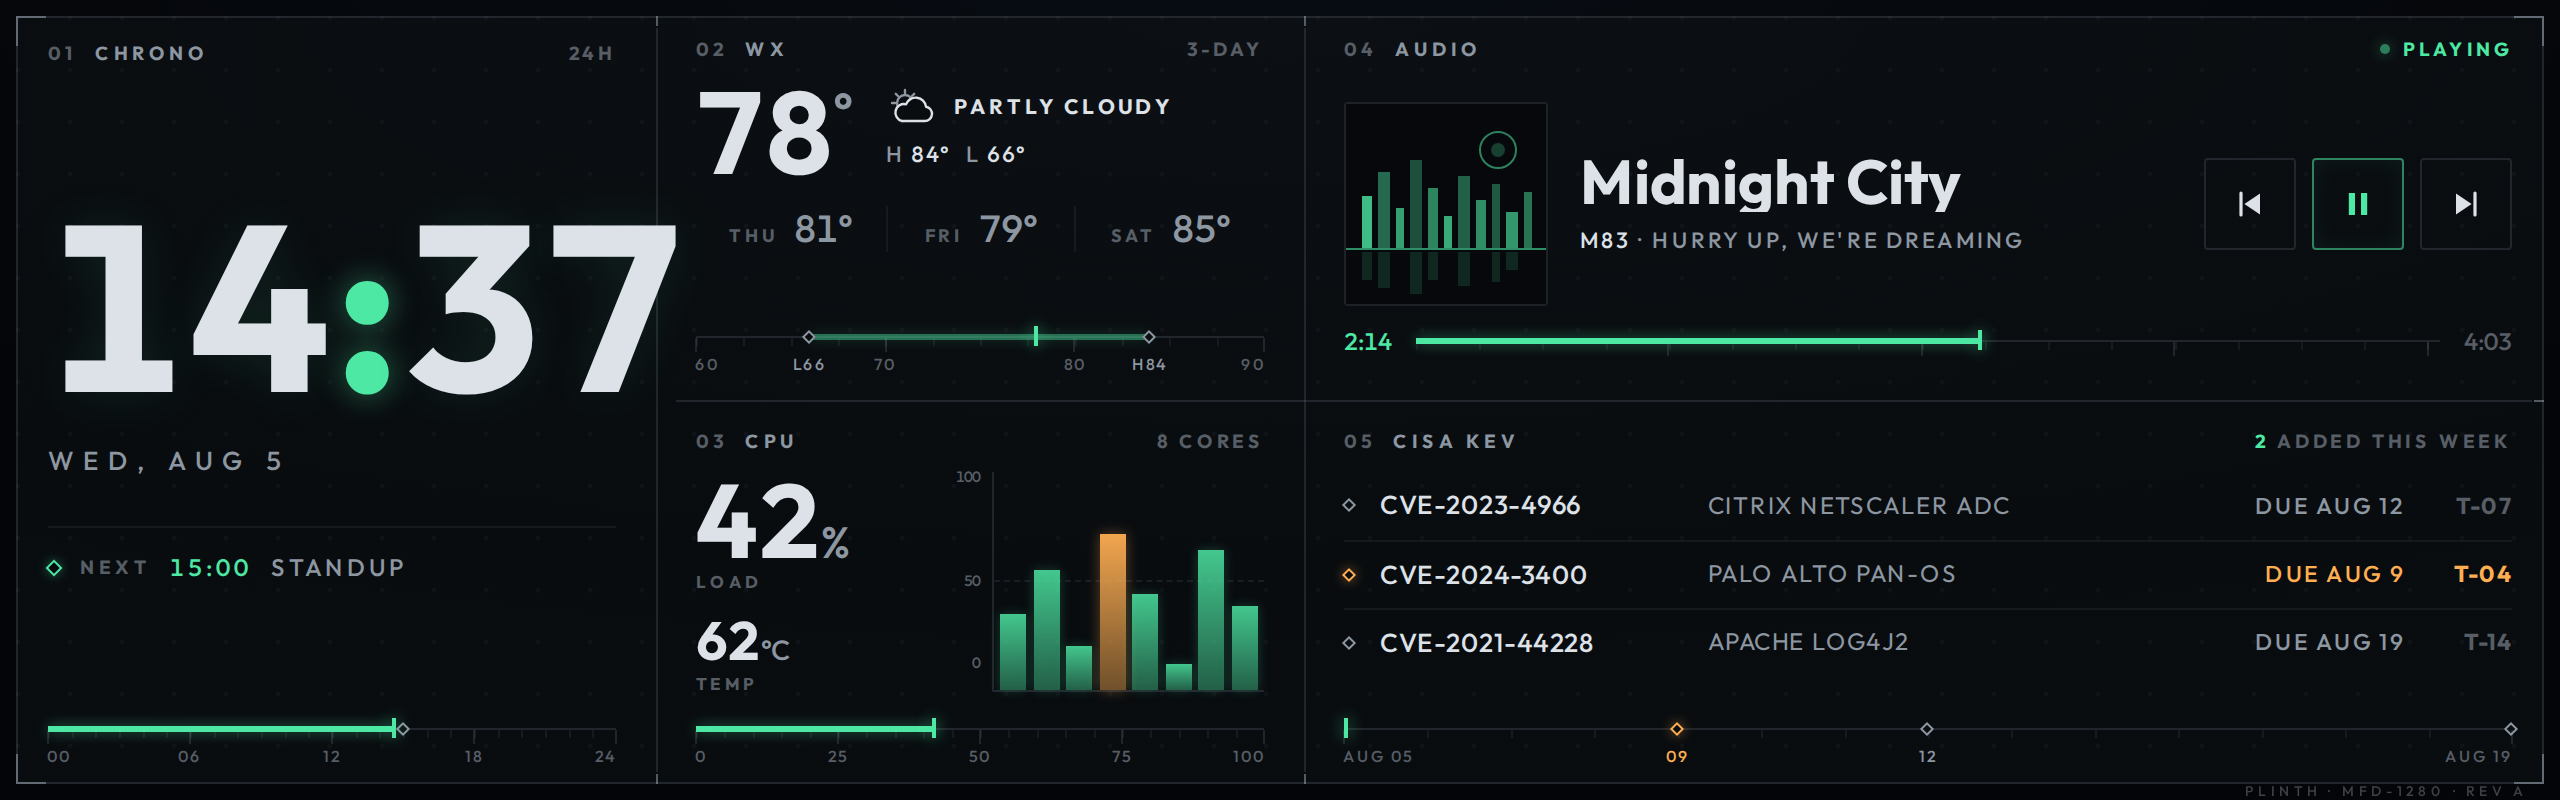
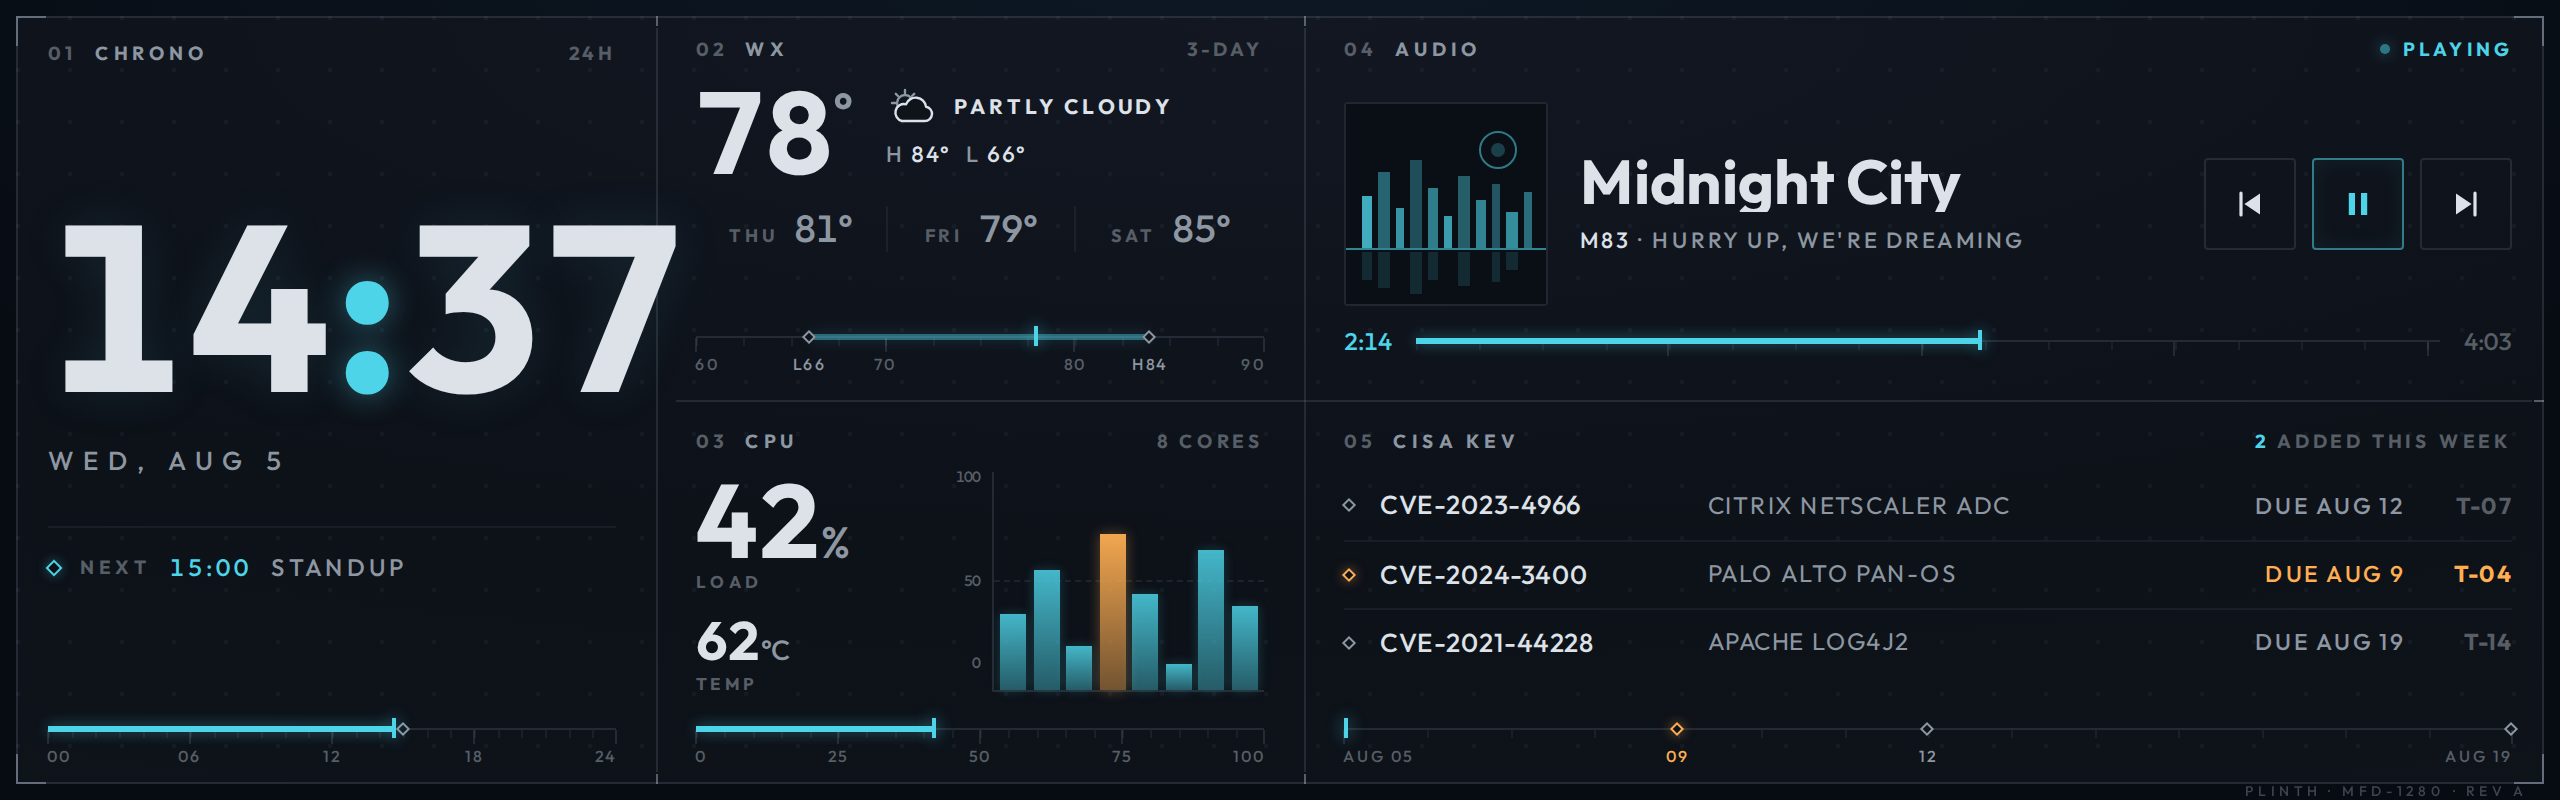
Hybrid round 2: cyan phosphor, lifted blue field
Green data accents clashed against the new blue field, so the phosphor
is re-pitched from green to cyan at the same saturation and brightness
(#4de8a4 -> #4dd4e8, --phos-rgb following), across the tokens and every
hardcoded SVG data fill. The field itself steps a notch lighter (bezel
#070b12, plate #0f141b, gradient and glow wash lifted to match) so the
blue reads instead of sitting at near-black. Amber alert roles are
still byte-for-byte Meter's.

Claude-Session: https://claude.ai/code/session_013RaFoFAZwKaKxN6ChnpKcc

diff --git a/design/poc/hybrid/index.html b/design/poc/hybrid/index.html
@@ -7,8 +7,8 @@
 <style>
   /* ============================================================
      PLINTH / HYBRID — the Meter instrument, restated
-     Lume's Outfit for all type · scanlines off · blue field
-     Accent hues untouched: phosphor green data, amber alerts.
+     Lume's Outfit for all type · scanlines off · lifted blue field
+     Phosphor re-pitched green→cyan · amber alerts untouched.
      ============================================================ */
   @font-face{font-family:'Outfit';font-weight:300;src:url('../fonts/outfit-300.woff2') format('woff2')}
   @font-face{font-family:'Outfit';font-weight:400;src:url('../fonts/outfit-400.woff2') format('woff2')}
@@ -16,15 +16,15 @@
   @font-face{font-family:'Outfit';font-weight:700;src:url('../fonts/outfit-700.woff2') format('woff2')}
 
   :root{
-    --bezel:#040508;              /* outside the plate */
-    --field:#0a0d10;              /* the machined plate */
+    --bezel:#070b12;              /* outside the plate */
+    --field:#0f141b;              /* the machined plate */
     --line:rgba(148,166,186,.17); /* structural hairline */
     --line-soft:rgba(148,166,186,.09);
     --line-bright:rgba(205,219,235,.38);
     --text:#dde2e8;              /* primary readout — never pure white */
     --muted:#8d97a2;
     --dim:#575e66;
-    --phos:#4de8a4;  --phos-rgb:77,232,164;   /* the one data hue */
+    --phos:#4dd4e8;  --phos-rgb:77,212,232;   /* the one data hue */
     --amber:#ffae52; --amber-rgb:255,174,82;  /* the one alert hue */
     --mono:'Outfit',monospace;
     --disp:'Outfit',sans-serif;
@@ -35,7 +35,7 @@
   body{
     position:relative;
     background:
-      radial-gradient(120% 160% at 50% -10%, rgba(77,164,232,.05), transparent 55%),
+      radial-gradient(120% 160% at 50% -10%, rgba(77,164,232,.09), transparent 55%),
       var(--bezel);
     font-family:var(--mono);
     color:var(--text);
@@ -52,8 +52,8 @@
   .panel{
     position:absolute;inset:8px;               /* 1264 x 384 */
     background:
-      radial-gradient(circle at 1px 1px, rgba(148,166,186,.045) 1px, transparent 1.4px) 0 0/26px 26px,
-      radial-gradient(140% 130% at 50% 0%, #0c0f13 0%, #090c0f 55%, var(--field) 100%);
+      radial-gradient(circle at 1px 1px, rgba(148,166,186,.06) 1px, transparent 1.4px) 0 0/26px 26px,
+      radial-gradient(140% 130% at 50% 0%, #121722 0%, #0d1118 55%, var(--field) 100%);
     display:grid;
     grid-template-columns:316px 316px 616px;
     grid-template-rows:188px 188px;
@@ -197,7 +197,7 @@
   .media{grid-column:3;grid-row:1}
   .media .main{display:flex;align-items:center;gap:16px;margin-top:10px;flex:1 1 auto;min-height:0}
   .art{width:102px;height:102px;flex:none;position:relative;border:1px solid var(--line);
-    background:#06080b;border-radius:2px;overflow:hidden}
+    background:#0a0e15;border-radius:2px;overflow:hidden}
   .art svg{display:block;width:100%;height:100%}
   .minfo{flex:1;min-width:0;align-self:center}
   .minfo .track{font:600 31px/1.02 var(--disp);color:var(--text);
@@ -290,7 +290,7 @@
           <svg width="26" height="20" viewBox="0 0 26 20" fill="none" aria-hidden="true">
             <circle cx="9.5" cy="7.5" r="4" stroke="#8d97a2" stroke-width="1.2"/>
             <path d="M9.5 1v1.6M3 7.5h1.6M4.9 2.9l1.1 1.1M14.1 2.9 13 4" stroke="#8d97a2" stroke-width="1.2" stroke-linecap="round"/>
-            <path d="M8 16.5h11.4a3.6 3.6 0 0 0 .6-7.15 5.2 5.2 0 0 0-10-1.2A4.2 4.2 0 0 0 8 16.5Z" fill="#0a0d10" stroke="#dde2e8" stroke-width="1.2" stroke-linejoin="round"/>
+            <path d="M8 16.5h11.4a3.6 3.6 0 0 0 .6-7.15 5.2 5.2 0 0 0-10-1.2A4.2 4.2 0 0 0 8 16.5Z" fill="#0f141b" stroke="#dde2e8" stroke-width="1.2" stroke-linejoin="round"/>
           </svg>
           <span>Partly cloudy</span>
         </div>
@@ -360,10 +360,10 @@
       <div class="art" aria-hidden="true">
         <svg viewBox="0 0 100 100">
           <!-- midnight skyline, drawn in phosphor -->
-          <rect width="100" height="100" fill="#06080b"/>
-          <circle cx="76" cy="23" r="9" fill="none" stroke="rgba(77,232,164,.55)" stroke-width="1"/>
-          <circle cx="76" cy="23" r="3.5" fill="rgba(77,232,164,.25)"/>
-          <g fill="rgba(77,232,164,.8)">
+          <rect width="100" height="100" fill="#0a0e15"/>
+          <circle cx="76" cy="23" r="9" fill="none" stroke="rgba(77,212,232,.55)" stroke-width="1"/>
+          <circle cx="76" cy="23" r="3.5" fill="rgba(77,212,232,.25)"/>
+          <g fill="rgba(77,212,232,.8)">
             <rect x="8"  y="46" width="5" height="26"/>
             <rect x="16" y="34" width="6" height="38" opacity=".55"/>
             <rect x="25" y="52" width="4" height="20" opacity=".85"/>
@@ -376,8 +376,8 @@
             <rect x="80" y="54" width="6" height="18" opacity=".8"/>
             <rect x="89" y="44" width="4" height="28" opacity=".6"/>
           </g>
-          <rect x="0" y="72" width="100" height="1" fill="rgba(77,232,164,.6)"/>
-          <g fill="rgba(77,232,164,.14)">
+          <rect x="0" y="72" width="100" height="1" fill="rgba(77,212,232,.6)"/>
+          <g fill="rgba(77,212,232,.14)">
             <rect x="8"  y="74" width="5" height="14"/>
             <rect x="16" y="74" width="6" height="18"/>
             <rect x="32" y="74" width="6" height="21"/>
@@ -401,8 +401,8 @@
         </button>
         <button class="btn play" aria-label="Pause">
           <svg width="16" height="16" viewBox="0 0 16 16" aria-hidden="true">
-            <rect x="3.4" y="2.5" width="3.1" height="11" fill="#4de8a4"/>
-            <rect x="9.5" y="2.5" width="3.1" height="11" fill="#4de8a4"/>
+            <rect x="3.4" y="2.5" width="3.1" height="11" fill="#4dd4e8"/>
+            <rect x="9.5" y="2.5" width="3.1" height="11" fill="#4dd4e8"/>
           </svg>
         </button>
         <button class="btn" aria-label="Next track">

diff --git a/design/poc/hybrid/DESIGN.md b/design/poc/hybrid/DESIGN.md
@@ -10,14 +10,17 @@ Recipe, applied to the Meter proof:
   Mono — both `--disp` and `--mono` stacks resolve to Outfit.
 - **Scan lines**: the repeating scanline overlay is removed; the corner
   vignette stays.
-- **Field**: every green-cast chrome value becomes its blue-cast equivalent
-  at the same darkness — the bezel, the machined plate and its gradient, the
-  page glow wash (`rgba(77,232,164,.05)` → `rgba(77,164,232,.05)`), the
+- **Field**: every green-cast chrome value becomes a blue-cast equivalent —
+  the bezel, the machined plate and its gradient, the page glow wash, the
   engineering-grid dots, all hairline rules, the plate etching, and the
   green-tinted readout neutrals (`--text`, `--muted`, `--dim`, and their
-  hardcoded uses in the weather and transport glyphs).
-- **Accents untouched**: `--phos` phosphor green and `--amber`, and every
-  `rgba(77,232,164,…)` data fill (album EQ, rings, spectrum floor), are
-  byte-for-byte what Meter used.
+  hardcoded uses in the weather and transport glyphs). Per follow-up review
+  the field is lifted a step lighter than Meter's darkness
+  (`--bezel #070b12`, `--field #0f141b`).
+- **Accent**: green phosphor on the blue field clashed, so per follow-up
+  review the phosphor is re-pitched from green to cyan at the same
+  saturation and brightness (`#4de8a4` → `#4dd4e8`), including every
+  hardcoded data fill (album EQ, rings, spectrum floor). `--amber` and its
+  alert roles are byte-for-byte what Meter used.
 
 Render with `node design/poc/shot.js` (writes `shots/hybrid.png`).
